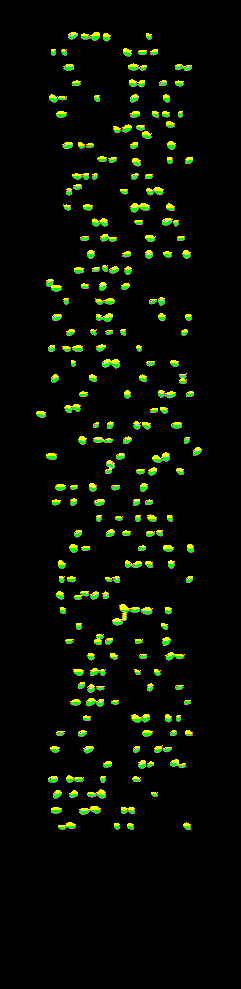
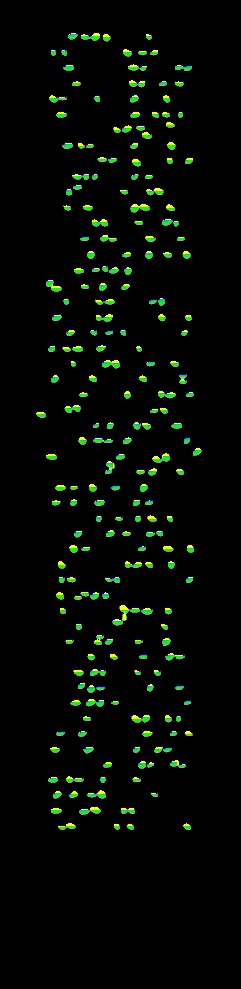
30.06 | 2

diff --git a/FindEggApplication/HeightMap.cpp b/FindEggApplication/HeightMap.cpp
@@ -257,6 +257,14 @@ cv::Mat HeightMap::draw()
 				image.at<cv::Vec3b>(iteration - 1 - j, count - 1 - i) = cv::Vec3b((int)0, (int)255, (int)255);
 				continue;
 			}
+			if (value == -6) {
+				image.at<cv::Vec3b>(iteration - 1 - j, count - 1 - i) = cv::Vec3b((int)128, (int)0, (int)0);
+				continue;
+			}
+			if (value == -7) {
+				image.at<cv::Vec3b>(iteration - 1 - j, count - 1 - i) = cv::Vec3b((int)218, (int)165, (int)32);
+				continue;
+			}
 			//if (value > 0.095f)
 			if (value > entryThreshold)
 				value = 0;
@@ -289,7 +297,7 @@ cv::Mat HeightMap::drawOrig()
 			float value = this->vector[i][j];
 
 
-			
+
 			//if (value > 0.095f)
 			if (value > entryThreshold)
 				value = 0;
@@ -372,7 +380,10 @@ void HeightMap::checkSensor(int sensorId, int iter)
 						sensors[j]->toggleInterruptEnabled();
 						j++;
 					}
+					return;
 				}
+				this->drawVector[sensorId][iter] = -7;
+
 			}
 
 		}
@@ -381,6 +392,8 @@ void HeightMap::checkSensor(int sensorId, int iter)
 			if (value > this->entryThreshold) {
 				nowSensor->stopListhen(this->entryThreshold);
 				//checkSensor(sensorId, iter);
+				this->drawVector[sensorId][iter] = -6;
+				return;
 
 			}
 			if (value < this->entryThreshold && this->vector[sensorId][iter - 1] > value && this->vector[sensorId][iter - 1] > this->vector[sensorId][iter - 2]) {
@@ -389,6 +402,7 @@ void HeightMap::checkSensor(int sensorId, int iter)
 				this->drawVector[sensorId][iter] = -3;
 
 				//checkSensor(sensorId, iter);
+				return;
 
 			}
 			this->drawVector[sensorId][iter] = -5;

diff --git a/FindEggApplication/MyForm.h b/FindEggApplication/MyForm.h
@@ -1089,14 +1089,14 @@ namespace FindEggApplication {
 		cv::imwrite("save.png", image);
 
 
-		cv::Mat image = heightMap->drawOrig();
+		cv::Mat imageOne = heightMap->drawOrig();
 
 		cv::namedWindow("test", cv::WINDOW_NORMAL);
-		cv::resizeWindow("test", image.cols * 3, image.rows * 3);
+		cv::resizeWindow("test", imageOne.cols * 3, imageOne.rows * 3);
 
-		cv::imshow("testOrig", image);
+		cv::imshow("testOrig", imageOne);
 
-		cv::imwrite("saveOrig.png", image);
+		cv::imwrite("saveOrig.png", imageOne);
 	}
 	private: System::Void button2_Click(System::Object^ sender, System::EventArgs^ e) {
 		heightMap = gcnew HeightMap();
